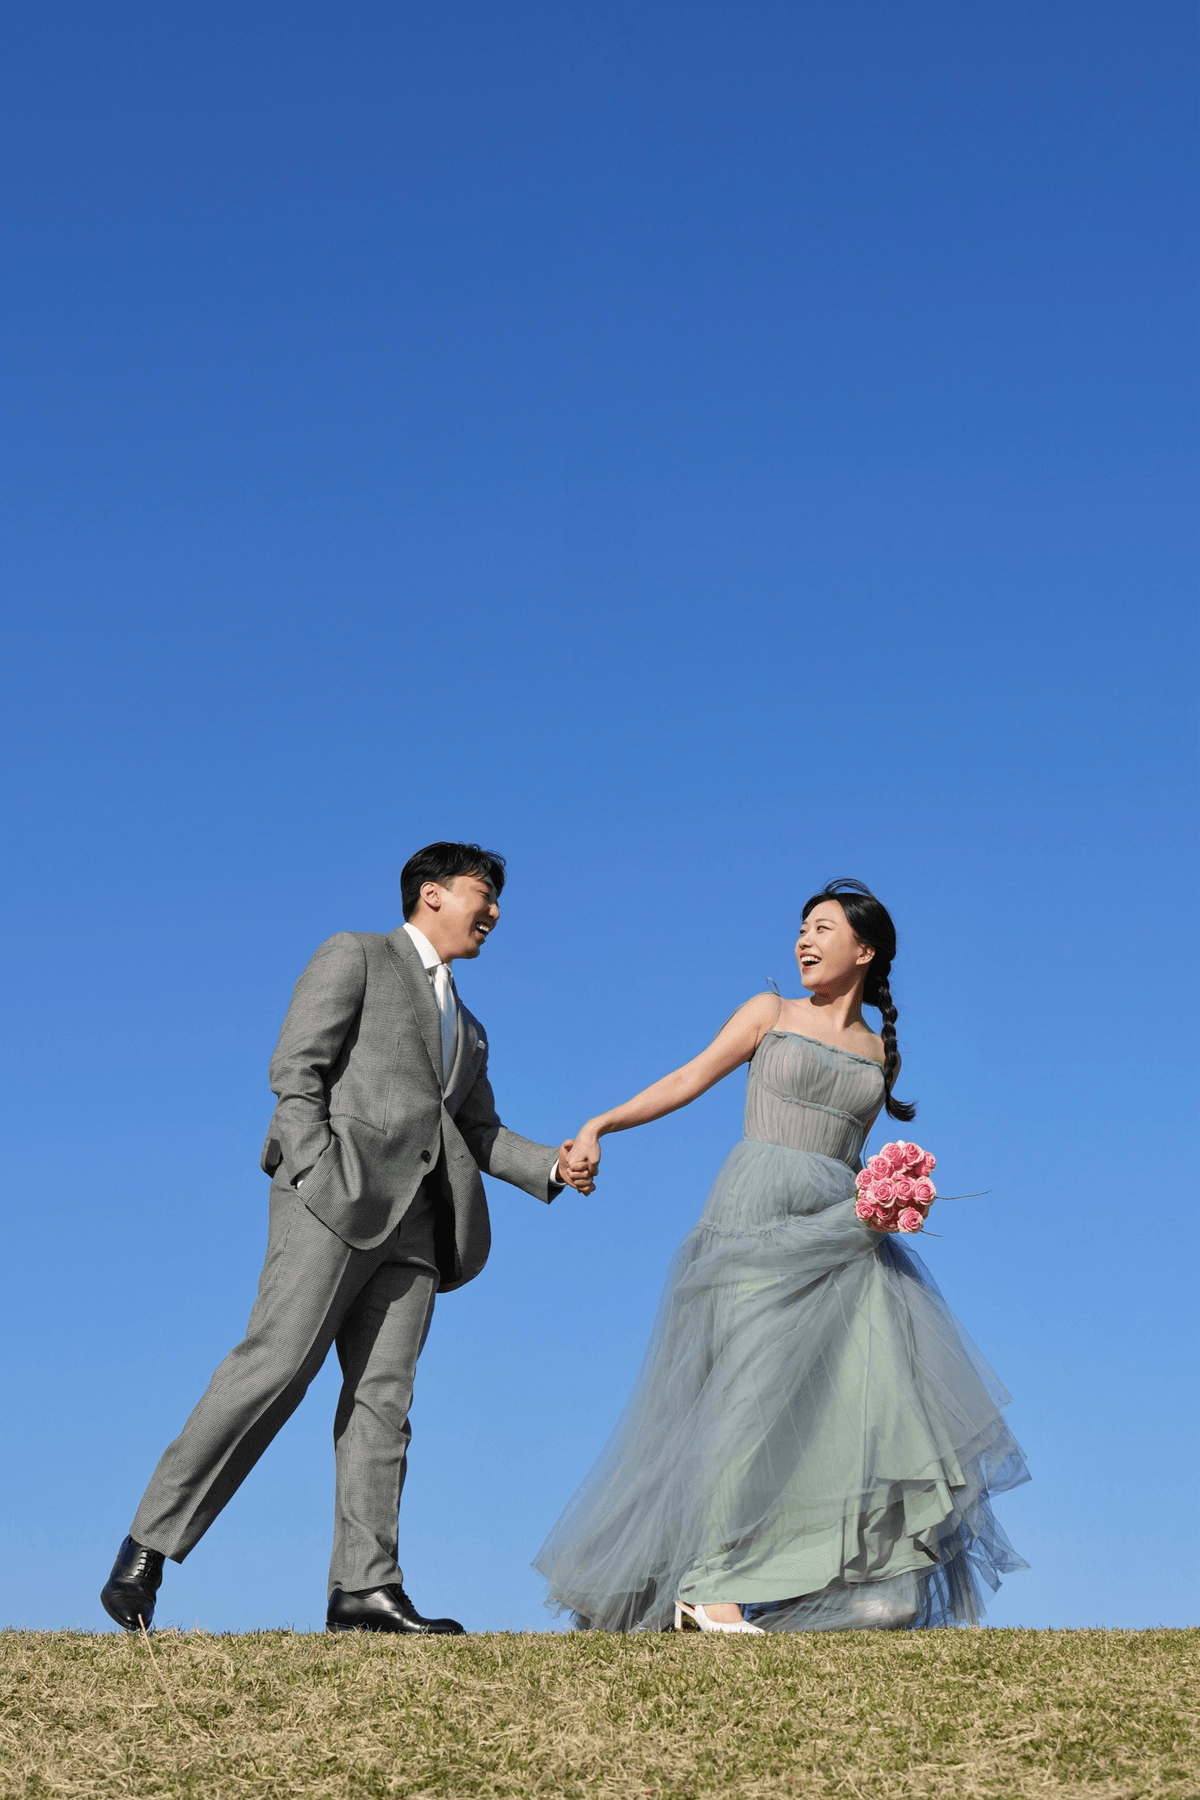
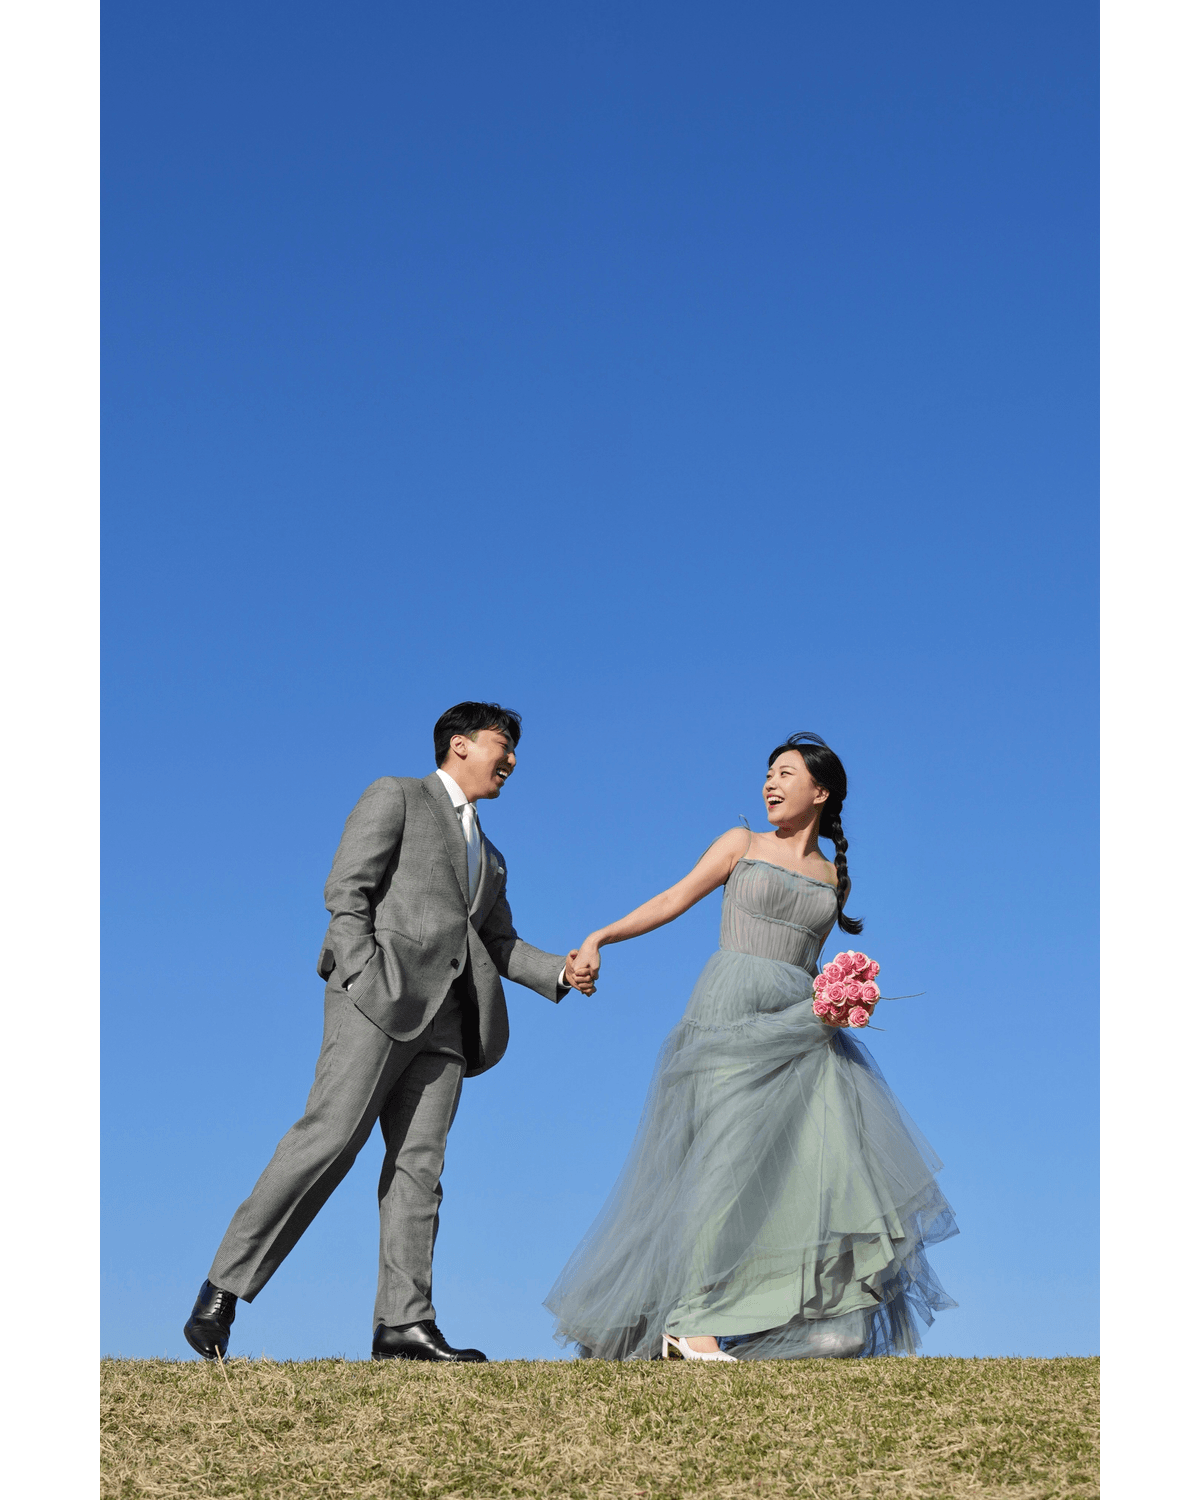
feat: 카카오 공유 미리보기 이미지를 세로 비율(1200x1500)로 변경
큰 세로 카드로 표시되도록 정사각형 이상 비율 적용,
사진 전체(발끝까지)가 contain 방식으로 노출됨.

diff --git a/index.html b/index.html
@@ -12,7 +12,7 @@
       property="og:title"
       content="<%= GROOM_FULLNAME %> ❤️ <%= BRIDE_FULLNAME %> 결혼합니다."
     />
-    <meta property="og:image" content="<%= HOMEPAGE %>/preview_og.png?v=2" />
+    <meta property="og:image" content="<%= HOMEPAGE %>/preview_og.png?v=3" />
     <meta property="og:url" content="%BASE_URL%/" />
     <meta property="og:description" content="<%= DESCRIPTION %>" />
     <link rel="preload" href="/MapoGoldenPierA.woff" as="font" crossorigin />

diff --git a/src/component/shareButton/index.tsx b/src/component/shareButton/index.tsx
@@ -49,7 +49,7 @@ export const ShareButton = () => {
                 "//" +
                 window.location.host +
                 baseUrl +
-                "preview_image.png?v=2",
+                "preview_image.png?v=3",
               link: {
                 mobileWebUrl:
                   window.location.protocol +